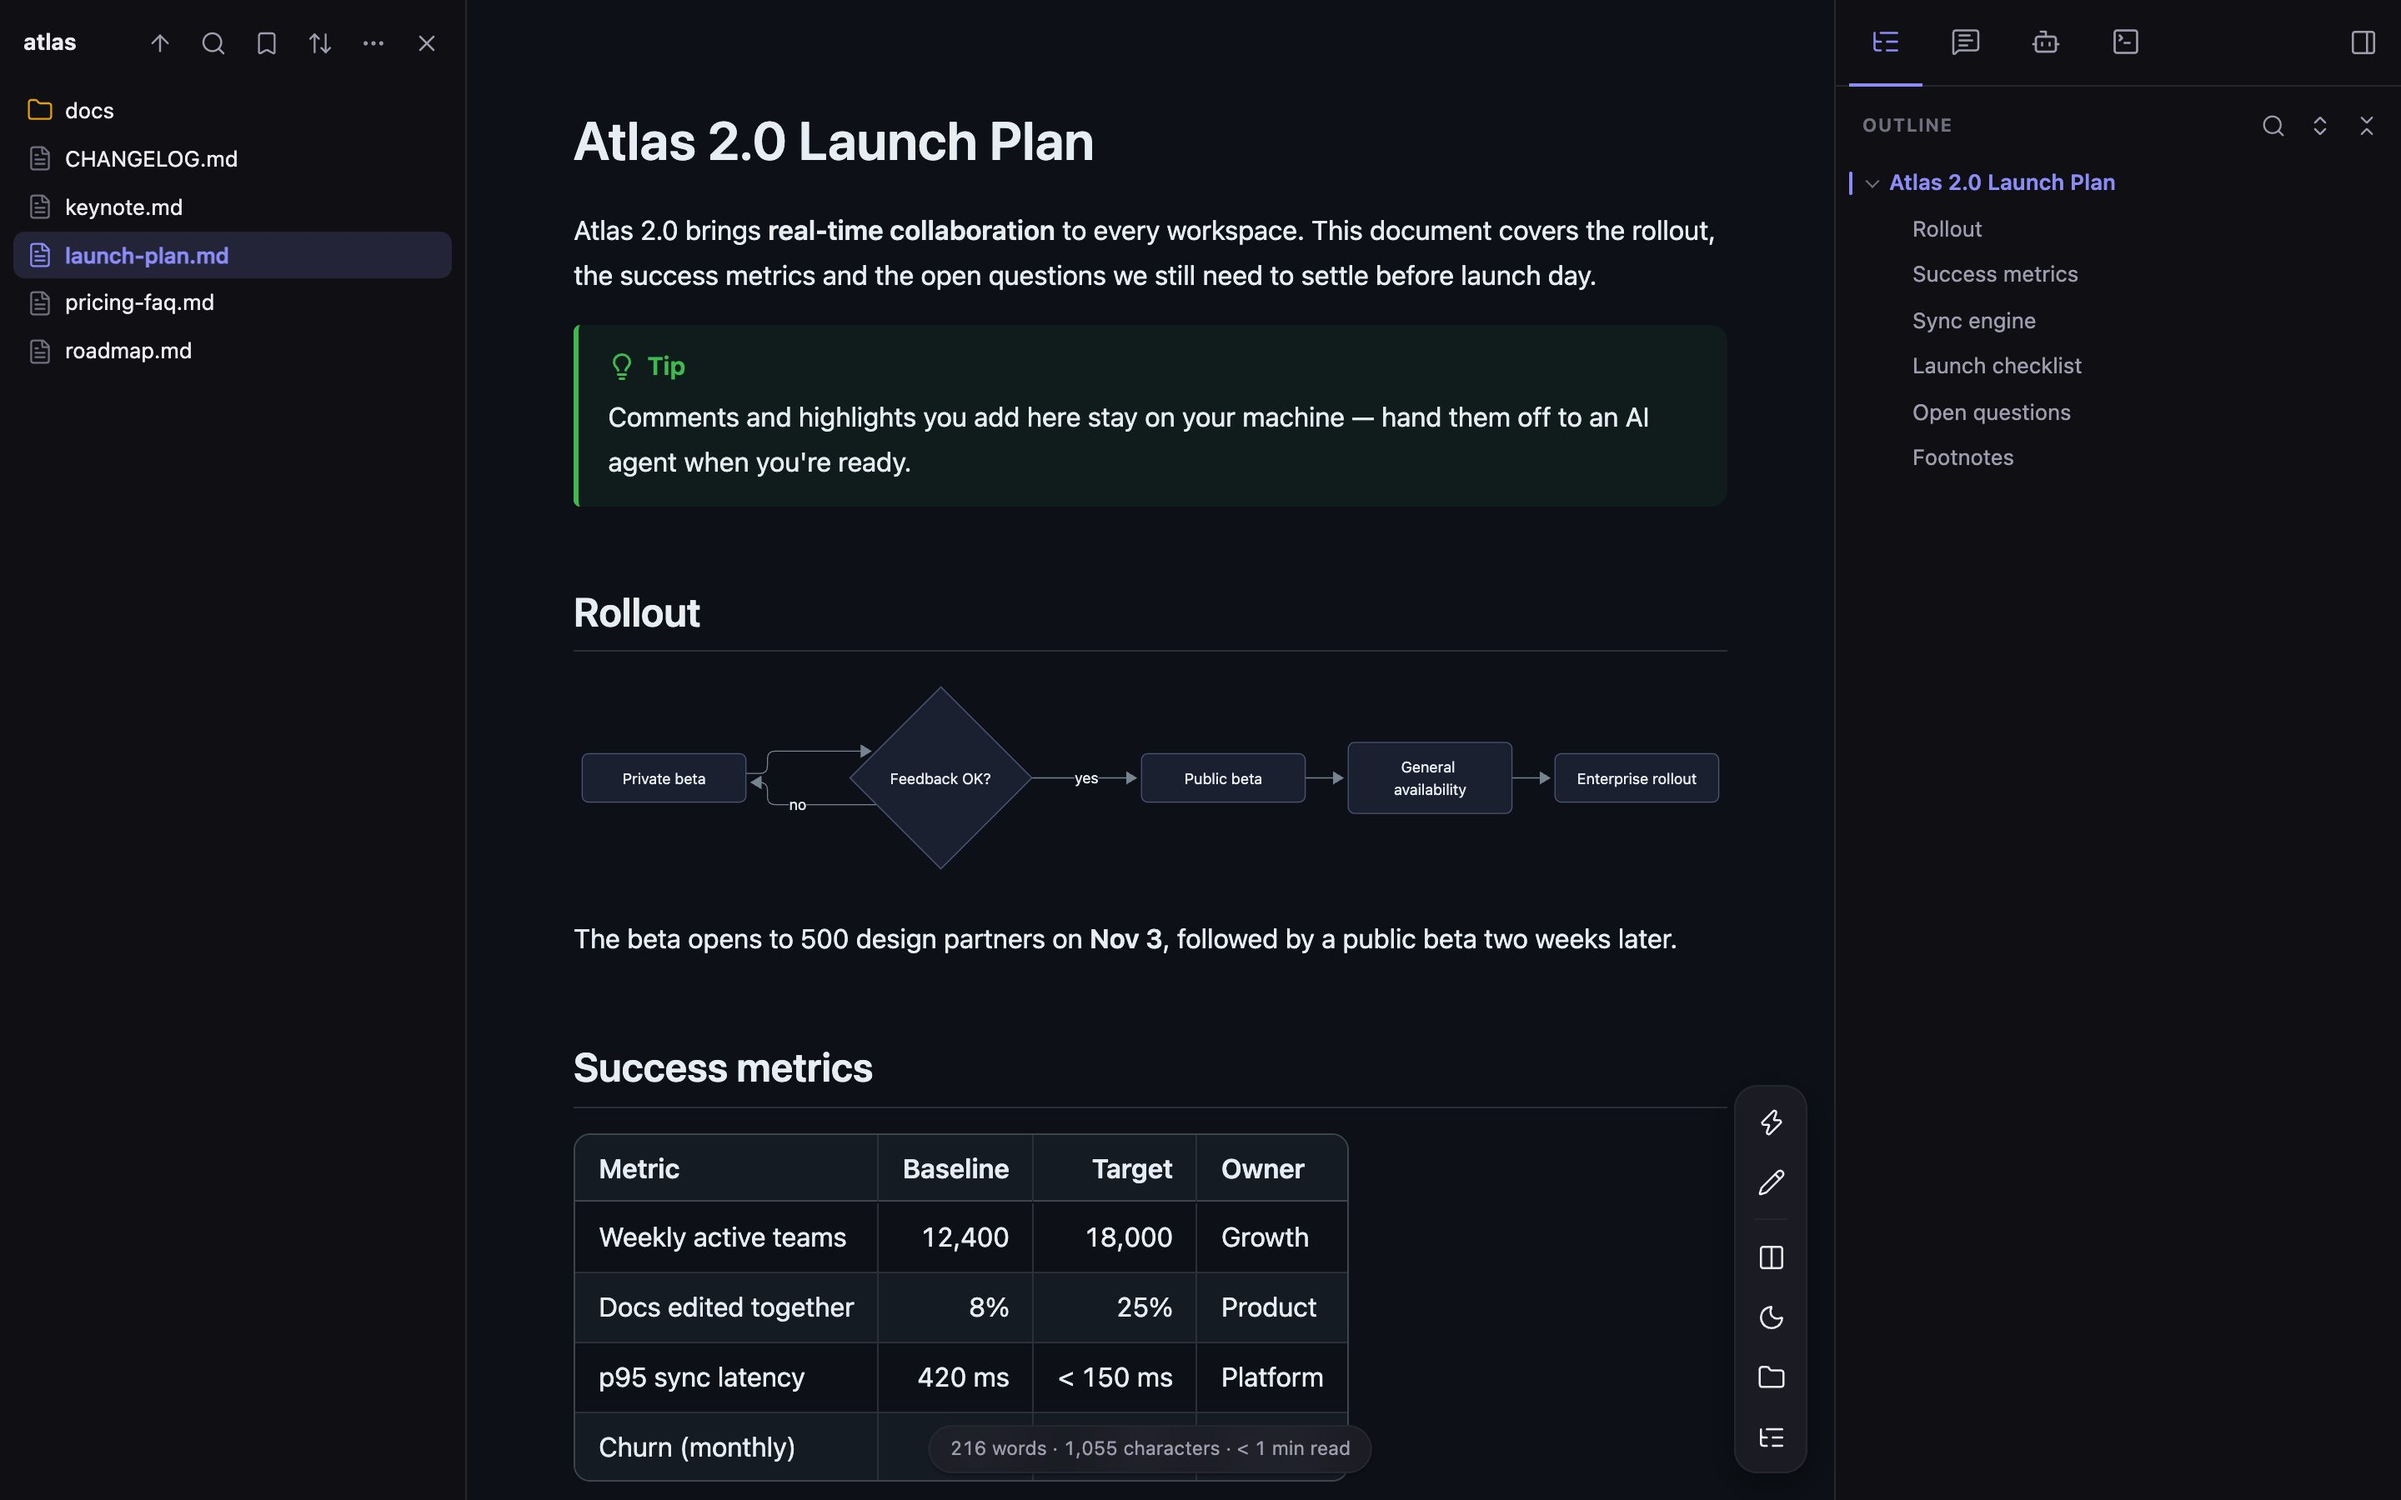
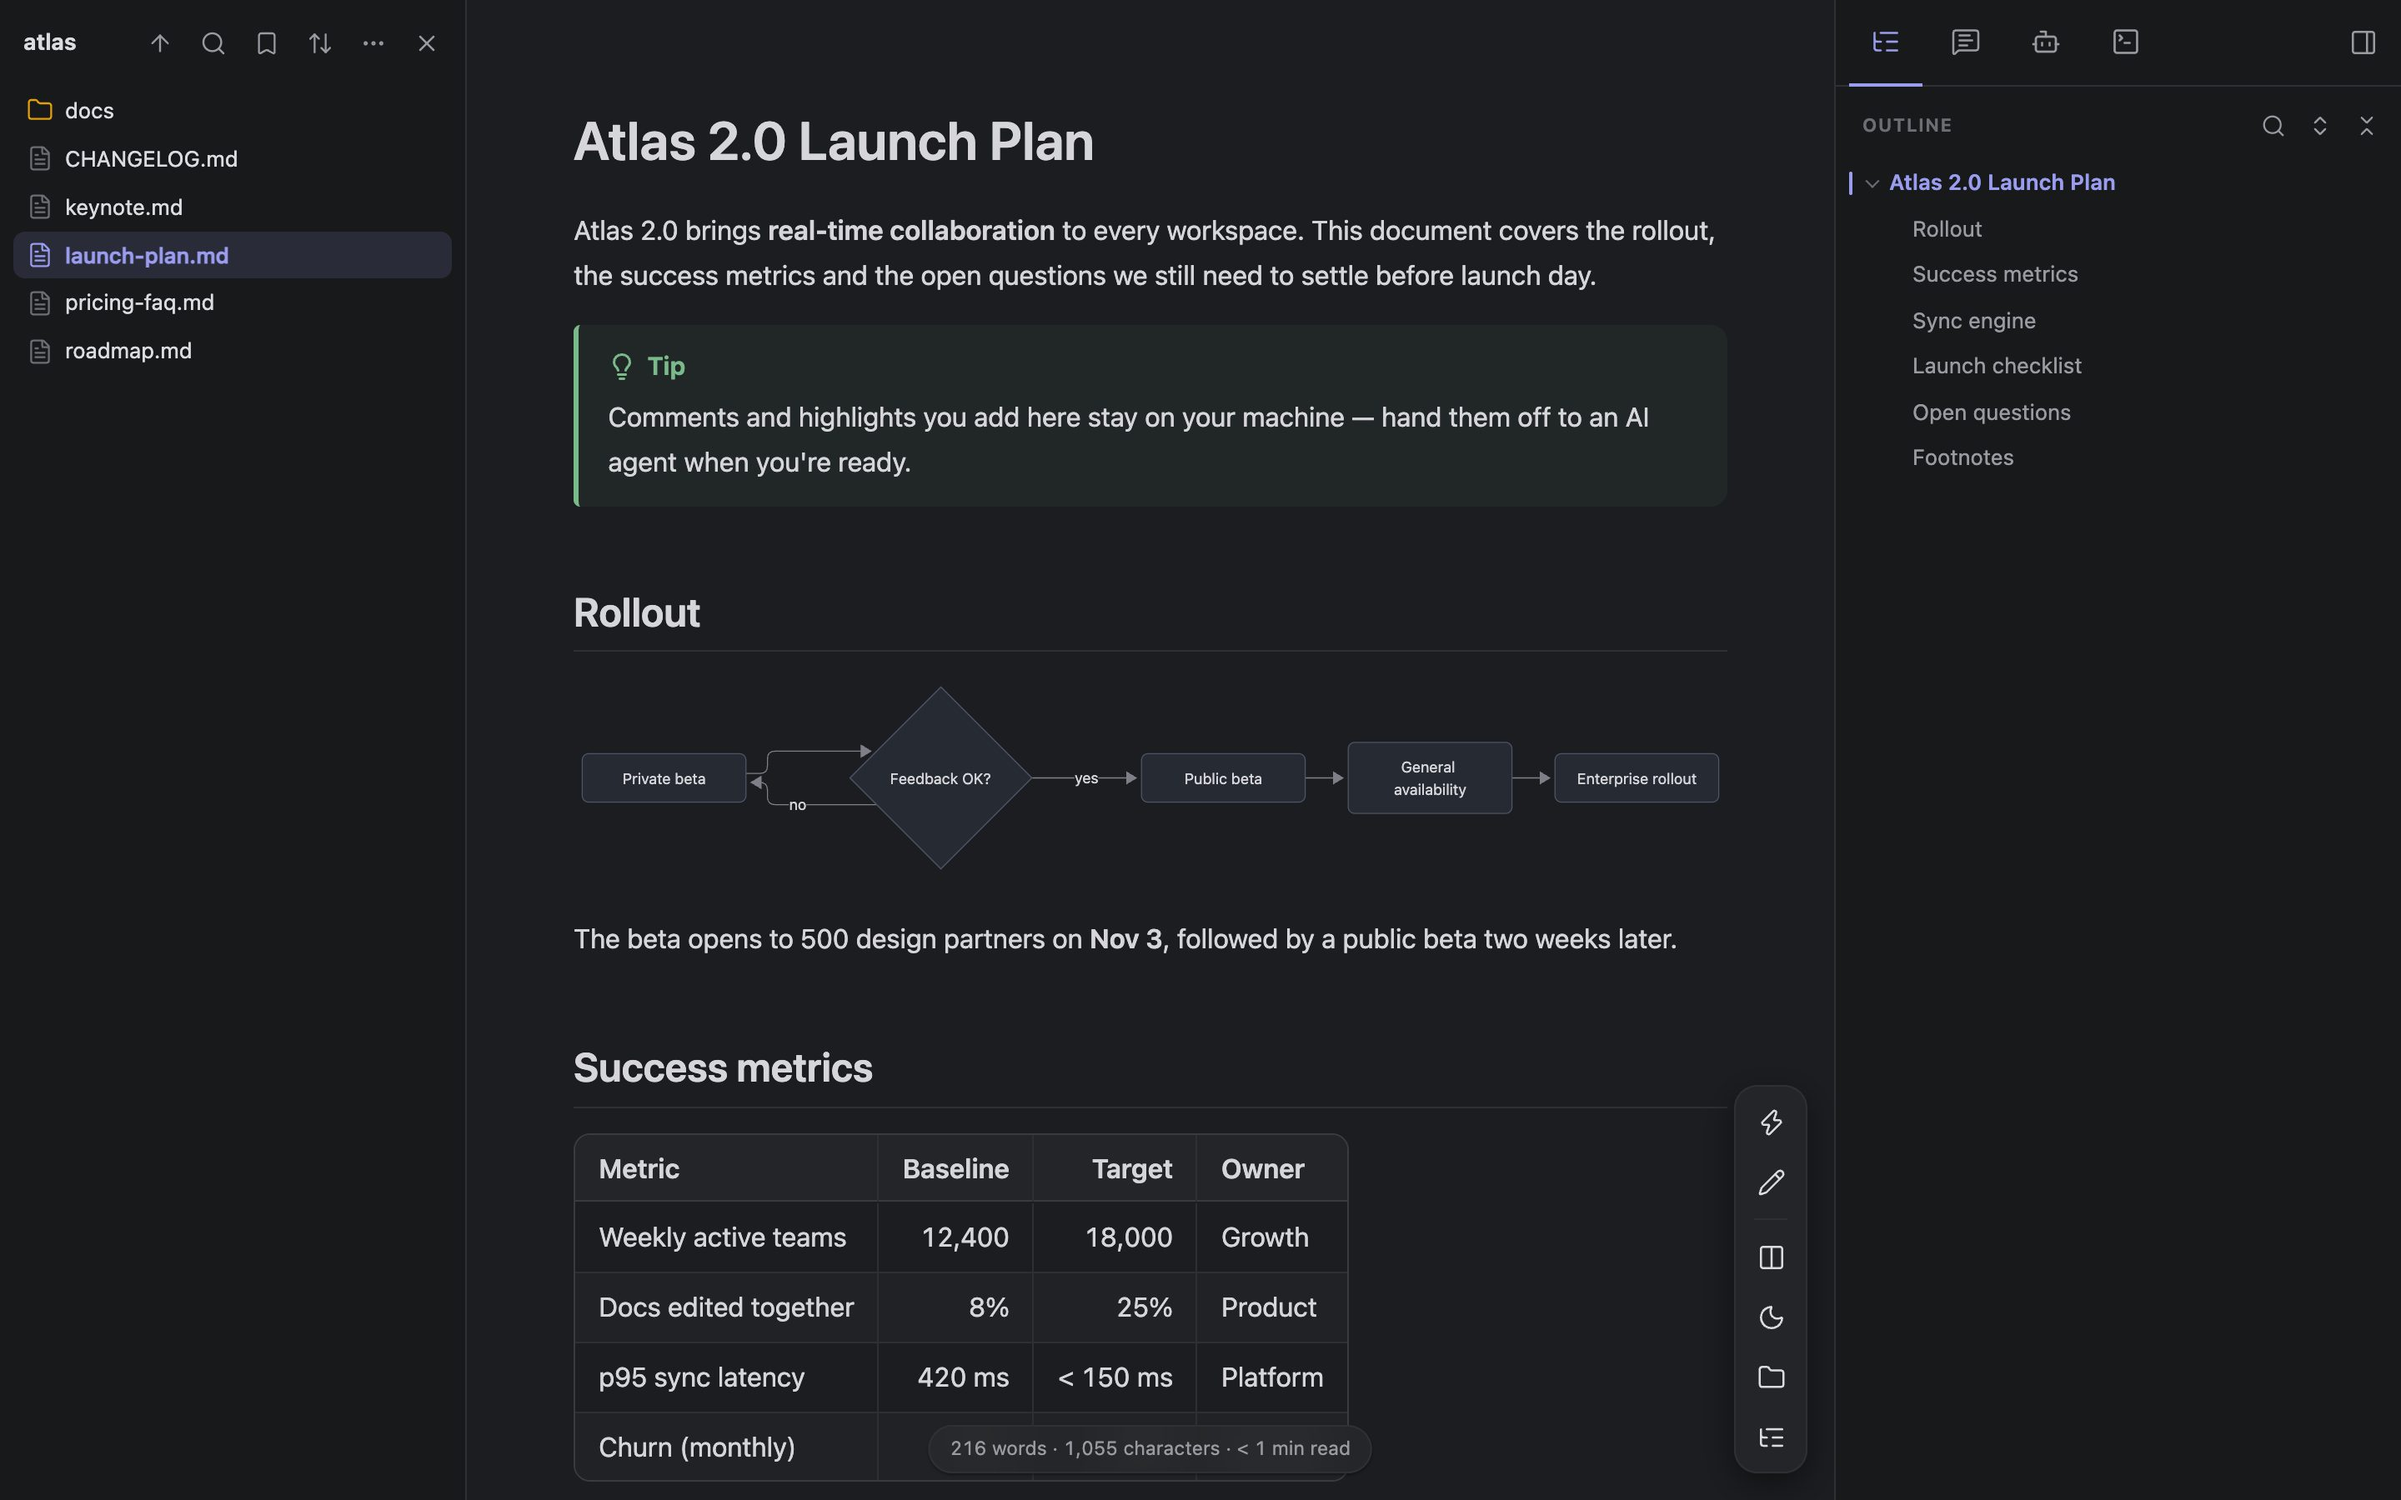
Soften preview colours in every theme
Off-white light background, lower text contrast, desaturated links,
alerts and syntax colours; neutral dark grey instead of near-black;
warm alert and Mermaid palettes for sepia. UI chrome follows the same tones.

diff --git a/src/viewer/content.css b/src/viewer/content.css
@@ -4,35 +4,35 @@
 :root,
 :root[data-theme='light'],
 .present[data-theme='light'] {
-  --bg: #ffffff;
-  --fg: #1f2328;
-  --muted: #59636e;
-  --border: #d1d9e0;
-  --border-soft: #e5e9ee;
-  --code-bg: #f6f8fa;
-  --inline-code-bg: rgba(129, 139, 152, 0.14);
-  --link: #0969da;
-  --mark: #fff8c5;
-  --quote: #59636e;
-  --table-stripe: #f6f8fa;
-  --table-head: #f6f8fa;
-  --md-accent: #0969da;
-  --note: #0969da;
-  --tip: #1a7f37;
-  --important: #8250df;
-  --warning: #9a6700;
-  --caution: #d1242f;
-  --hl-keyword: #cf222e;
-  --hl-string: #0a3069;
-  --hl-title: #8250df;
-  --hl-number: #0550ae;
-  --hl-comment: #6e7781;
-  --hl-attr: #0550ae;
-  --hl-built: #953800;
-  --hl-add-bg: #dafbe1;
-  --hl-add: #116329;
-  --hl-del-bg: #ffebe9;
-  --hl-del: #82071e;
+  --bg: #fbfbf9;
+  --fg: #2b2c30;
+  --muted: #6a6c73;
+  --border: #e0dfdb;
+  --border-soft: #ebeae6;
+  --code-bg: #f3f3f0;
+  --inline-code-bg: rgba(120, 115, 100, 0.11);
+  --link: #2f68b0;
+  --mark: #fbf0c0;
+  --quote: #66686f;
+  --table-stripe: #f6f6f3;
+  --table-head: #f3f3f0;
+  --md-accent: #2f68b0;
+  --note: #3a6db5;
+  --tip: #3c7a4f;
+  --important: #7458b8;
+  --warning: #93681e;
+  --caution: #b8443e;
+  --hl-keyword: #b2434f;
+  --hl-string: #2d5986;
+  --hl-title: #7254b0;
+  --hl-number: #2c62a0;
+  --hl-comment: #8b8d93;
+  --hl-attr: #2c62a0;
+  --hl-built: #9a5a22;
+  --hl-add-bg: #e4f3e6;
+  --hl-add: #2f6b3c;
+  --hl-del-bg: #f8e8e6;
+  --hl-del: #8c2f2b;
   --content-font: -apple-system, BlinkMacSystemFont, 'Segoe UI', 'PingFang SC', 'Hiragino Sans GB', 'Microsoft YaHei', 'Noto Sans', Helvetica, Arial, sans-serif, 'Apple Color Emoji', 'Segoe UI Emoji';
   --content-line: 1.7;
   --mono: ui-monospace, SFMono-Regular, 'SF Mono', Menlo, Consolas, 'Liberation Mono', monospace;
@@ -43,53 +43,58 @@
 :root[data-theme='dark'],
 .present[data-theme='dark'],
 .present[data-theme='night'] {
-  --bg: #0d1117;
-  --fg: #e6edf3;
-  --muted: #9198a1;
-  --border: #3d444d;
-  --border-soft: #2a3038;
-  --code-bg: #151b23;
-  --inline-code-bg: rgba(101, 108, 118, 0.25);
-  --link: #4493f8;
-  --mark: rgba(187, 128, 9, 0.35);
-  --quote: #9198a1;
-  --table-stripe: #151b23;
-  --table-head: #151b23;
-  --md-accent: #4493f8;
-  --note: #4493f8;
-  --tip: #3fb950;
-  --important: #ab7df8;
-  --warning: #d29922;
-  --caution: #f85149;
-  --hl-keyword: #ff7b72;
-  --hl-string: #a5d6ff;
-  --hl-title: #d2a8ff;
-  --hl-number: #79c0ff;
-  --hl-comment: #8b949e;
-  --hl-attr: #79c0ff;
-  --hl-built: #ffa657;
-  --hl-add-bg: rgba(46, 160, 67, 0.15);
-  --hl-add: #aff5b4;
-  --hl-del-bg: rgba(248, 81, 73, 0.15);
-  --hl-del: #ffdcd7;
+  --bg: #1c1d20;
+  --fg: #d6d6da;
+  --muted: #96979e;
+  --border: #3a3b40;
+  --border-soft: #2e2f33;
+  --code-bg: #242528;
+  --inline-code-bg: rgba(170, 170, 180, 0.12);
+  --link: #7fa8dc;
+  --mark: rgba(200, 160, 60, 0.28);
+  --quote: #a0a1a7;
+  --table-stripe: #212225;
+  --table-head: #242528;
+  --md-accent: #7fa8dc;
+  --note: #7fa8dc;
+  --tip: #79b98a;
+  --important: #a891dc;
+  --warning: #cda65c;
+  --caution: #e08680;
+  --hl-keyword: #e49a92;
+  --hl-string: #9cc1e3;
+  --hl-title: #c4ade8;
+  --hl-number: #8fb8e0;
+  --hl-comment: #7f8188;
+  --hl-attr: #8fb8e0;
+  --hl-built: #e0aa7a;
+  --hl-add-bg: rgba(90, 170, 110, 0.14);
+  --hl-add: #b5dcbf;
+  --hl-del-bg: rgba(220, 100, 90, 0.14);
+  --hl-del: #f0c4bf;
 }
 
 :root[data-theme='sepia'],
 .present[data-theme='sepia'] {
   --bg: #f8f1e3;
-  --fg: #3b2f22;
+  --fg: #45392b;
   --muted: #7a6a55;
   --border: #dccfb6;
   --border-soft: #e8dcc6;
   --code-bg: #f0e6d2;
   --inline-code-bg: rgba(120, 90, 50, 0.12);
-  --link: #9c4a12;
+  --link: #94501f;
   --mark: #f5dd8c;
   --quote: #7a6a55;
   --table-stripe: #f2e9d7;
   --table-head: #f2e9d7;
-  --md-accent: #9c4a12;
-  --hl-keyword: #a3301f;
+  --md-accent: #94501f;
+  --note: #4a6a8a;
+  --tip: #4f7a3a;
+  --important: #7a5296;
+  --warning: #8f6420;
+  --caution: #a8432f;
+  --hl-keyword: #9a3a2a;
   --hl-string: #4d6a1e;
   --hl-title: #6b3fa0;
   --hl-number: #1f5f8b;

diff --git a/src/viewer/diagrams.js b/src/viewer/diagrams.js
@@ -15,18 +15,28 @@ export const DIAGRAM_LANGS = {
 // Mermaid's `base` theme tuned to the document palette (content.css).
 const MERMAID_THEME = {
   light: {
-    background: '#ffffff', mainBkg: '#f3f3fe', nodeBorder: '#a9aaf2', primaryColor: '#f3f3fe', primaryBorderColor: '#a9aaf2', primaryTextColor: '#1d1e24',
-    secondaryColor: '#f1f8f4', secondaryBorderColor: '#9fd2b4', tertiaryColor: '#f7f7f9', tertiaryBorderColor: '#dcdde3',
-    lineColor: '#8b8d9b', textColor: '#3d3f4a', edgeLabelBackground: '#ffffff', clusterBkg: '#fafafb', clusterBorder: '#dcdde3',
-    noteBkgColor: '#fff8db', noteBorderColor: '#ecd690', noteTextColor: '#3d3f4a',
+    background: '#fbfbf9', mainBkg: '#eef1f7', nodeBorder: '#a9b6cf', primaryColor: '#eef1f7', primaryBorderColor: '#a9b6cf', primaryTextColor: '#2b2c30',
+    secondaryColor: '#eef5ef', secondaryBorderColor: '#a9c9b2', tertiaryColor: '#f3f3f0', tertiaryBorderColor: '#e0dfdb',
+    lineColor: '#8d9099', textColor: '#45474d', edgeLabelBackground: '#fbfbf9', clusterBkg: '#f6f6f3', clusterBorder: '#e0dfdb',
+    noteBkgColor: '#faf2d6', noteBorderColor: '#e4d39a', noteTextColor: '#45474d',
   },
   dark: {
-    darkMode: true, background: '#0d1117', mainBkg: '#1b2030', nodeBorder: '#4a5578', primaryColor: '#1b2030', primaryBorderColor: '#4a5578', primaryTextColor: '#e6edf3',
-    secondaryColor: '#18281f', secondaryBorderColor: '#3f8a5f', tertiaryColor: '#151b23', tertiaryBorderColor: '#3d444d',
-    lineColor: '#768390', textColor: '#c9d1d9', edgeLabelBackground: '#0d1117', clusterBkg: '#151b23', clusterBorder: '#3d444d',
-    noteBkgColor: '#2a2618', noteBorderColor: '#6b5a24', noteTextColor: '#e6edf3',
+    darkMode: true, background: '#1c1d20', mainBkg: '#262a33', nodeBorder: '#4c5466', primaryColor: '#262a33', primaryBorderColor: '#4c5466', primaryTextColor: '#d6d6da',
+    secondaryColor: '#22302a', secondaryBorderColor: '#4a7a5c', tertiaryColor: '#242528', tertiaryBorderColor: '#3a3b40',
+    lineColor: '#7d8089', textColor: '#c4c5ca', edgeLabelBackground: '#1c1d20', clusterBkg: '#212225', clusterBorder: '#3a3b40',
+    noteBkgColor: '#2f2b20', noteBorderColor: '#6b5d36', noteTextColor: '#d6d6da',
+  },
+  sepia: {
+    background: '#f8f1e3', mainBkg: '#f1e6d0', nodeBorder: '#c9b48e', primaryColor: '#f1e6d0', primaryBorderColor: '#c9b48e', primaryTextColor: '#45392b',
+    secondaryColor: '#e9ead2', secondaryBorderColor: '#b5b78a', tertiaryColor: '#f0e6d2', tertiaryBorderColor: '#dccfb6',
+    lineColor: '#9a8a72', textColor: '#5a4a38', edgeLabelBackground: '#f8f1e3', clusterBkg: '#f2e9d7', clusterBorder: '#dccfb6',
+    noteBkgColor: '#f5e6b8', noteBorderColor: '#d8c088', noteTextColor: '#45392b',
   },
 };
+
+// Exports (plain) always use the light palette.
+const mermaidPalette = (dark, plain) =>
+  dark ? 'dark' : !plain && document.documentElement.dataset.theme === 'sepia' ? 'sepia' : 'light';
 
 let mermaidP;
 let seq = 0;
@@ -35,7 +45,7 @@ async function mermaid(source, dark, _settings, plain = false) {
   const m = await mermaidP;
   m.initialize({
     startOnLoad: false, securityLevel: 'strict', theme: 'base', fontFamily: 'inherit',
-    themeVariables: { fontSize: '14px', dropShadow: 'none', ...MERMAID_THEME[dark ? 'dark' : 'light'] },
+    themeVariables: { fontSize: '14px', dropShadow: 'none', ...MERMAID_THEME[mermaidPalette(dark, plain)] },
     // Plain SVG text labels (no foreignObject) so the diagram can be rasterized for export.
     htmlLabels: !plain, flowchart: { htmlLabels: !plain, curve: 'basis', padding: 14 },
   });

diff --git a/src/shared/ui.css b/src/shared/ui.css
@@ -1,17 +1,17 @@
 /* Design tokens and shared controls (viewer, settings, popup). */
 :root {
-  --ui-bg: #f7f7f9;
-  --ui-panel: #ffffff;
-  --ui-raised: #ffffff;
-  --ui-fg: #1d1d27;
-  --ui-muted: #6c6c7c;
-  --ui-faint: #9b9bab;
-  --ui-border: #e8e8ee;
-  --ui-hover: rgba(30, 30, 60, 0.055);
-  --accent: #5b5bd6;
+  --ui-bg: #f4f4f1;
+  --ui-panel: #fbfbf9;
+  --ui-raised: #fefefd;
+  --ui-fg: #2b2c30;
+  --ui-muted: #6f7077;
+  --ui-faint: #a0a1a6;
+  --ui-border: #e4e3df;
+  --ui-hover: rgba(60, 55, 40, 0.055);
+  --accent: #5c5fc8;
   --accent-2: #8b5cf6;
   --accent-fg: #ffffff;
-  --accent-soft: rgba(91, 91, 214, 0.1);
+  --accent-soft: rgba(92, 95, 200, 0.1);
   --accent-grad: linear-gradient(135deg, #6366f1 0%, #8b5cf6 100%);
   --danger: #e5484d;
   --ok: #30a46c;
@@ -26,16 +26,16 @@
   color-scheme: light;
 }
 :root[data-theme='dark'] {
-  --ui-bg: #101014;
-  --ui-panel: #17171d;
-  --ui-raised: #1d1d25;
-  --ui-fg: #ececf2;
-  --ui-muted: #9d9daf;
-  --ui-faint: #6f6f80;
-  --ui-border: #26262f;
-  --ui-hover: rgba(255, 255, 255, 0.06);
-  --accent: #8b8cf8;
-  --accent-soft: rgba(139, 140, 248, 0.16);
+  --ui-bg: #18191b;
+  --ui-panel: #1f2023;
+  --ui-raised: #26272a;
+  --ui-fg: #dcdce0;
+  --ui-muted: #9a9ba2;
+  --ui-faint: #6d6e75;
+  --ui-border: #2f3034;
+  --ui-hover: rgba(255, 255, 255, 0.055);
+  --accent: #9a9cf0;
+  --accent-soft: rgba(154, 156, 240, 0.14);
   --shadow-sm: 0 1px 2px rgba(0, 0, 0, 0.4);
   --shadow: 0 6px 20px rgba(0, 0, 0, 0.45);
   --shadow-lg: 0 20px 60px rgba(0, 0, 0, 0.6);
